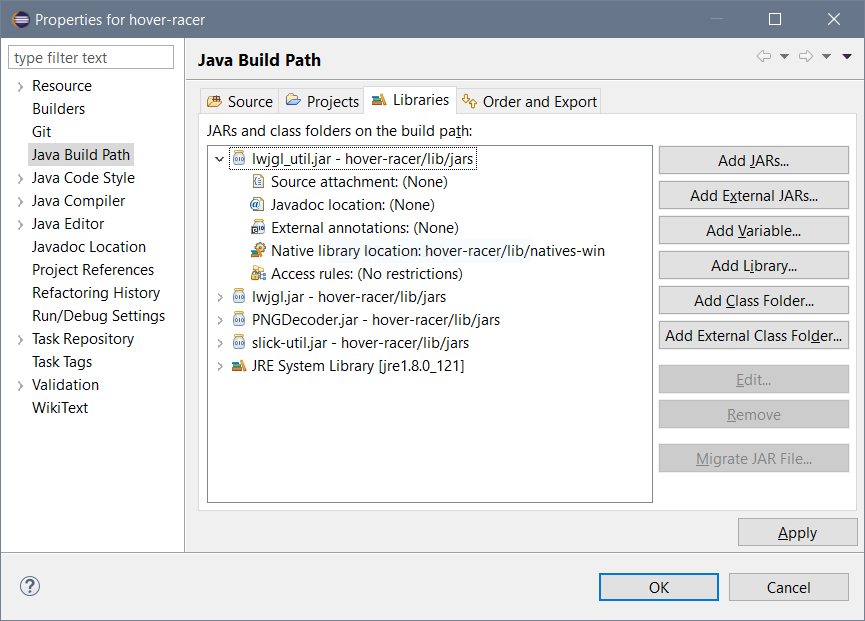
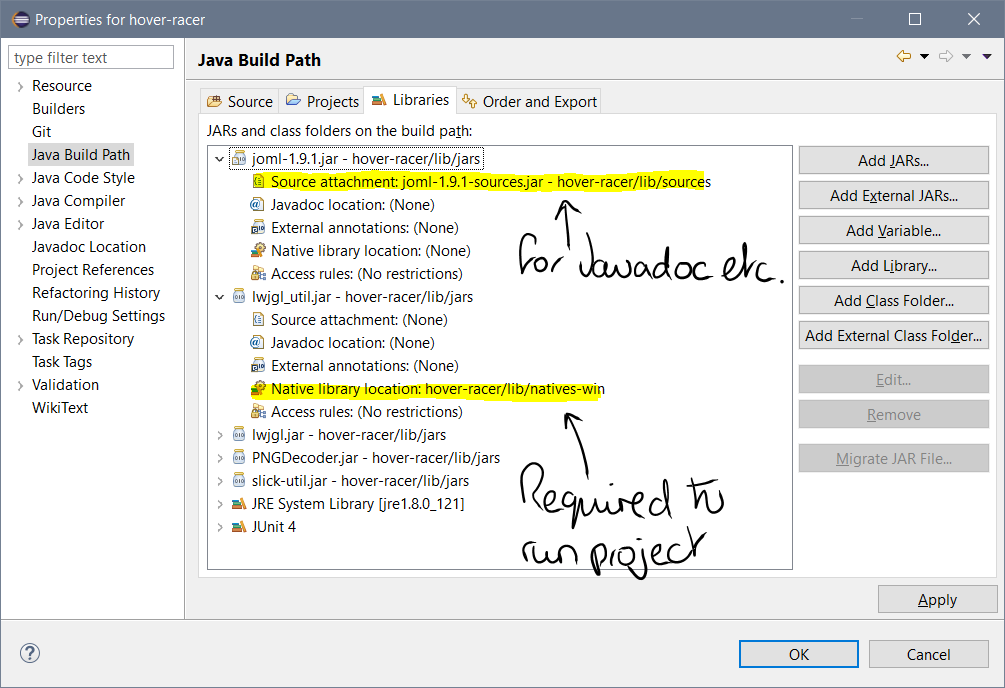
Update build path instructions and image

Changed region(s): [[0.0, 0.0, 0.9988, 0.8567], [0.0, 0.8261, 0.9988, 0.9791], [0.7803, 0.7955, 0.8116, 0.8261]]

diff --git a/Readme.md b/Readme.md
@@ -5,4 +5,8 @@ Before compiling the code you must add the LWJGL .jars to your classpath. In Ecl
 
 Once the .jars have been added, expand "lwjgl_util.jar" and under "Native library location" select the natives folder for your operating system.
 
+(Optional) you can also add the source for JOML which adds Javadocs for all methods and may help in debugging.
+
+JUnit 4 is now also required, add this with "Add Library..." and select JUnit 4.
+
 ![The Eclipse Build Path Window](buildPath.png)
